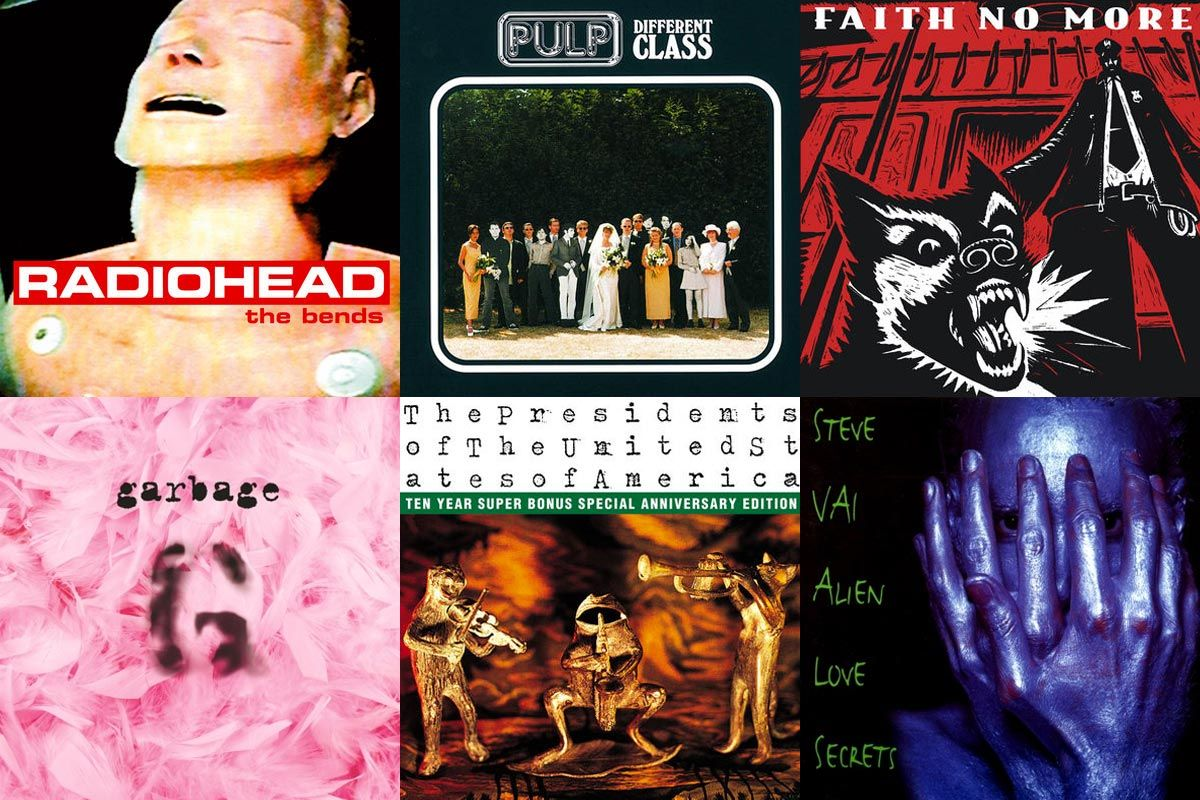
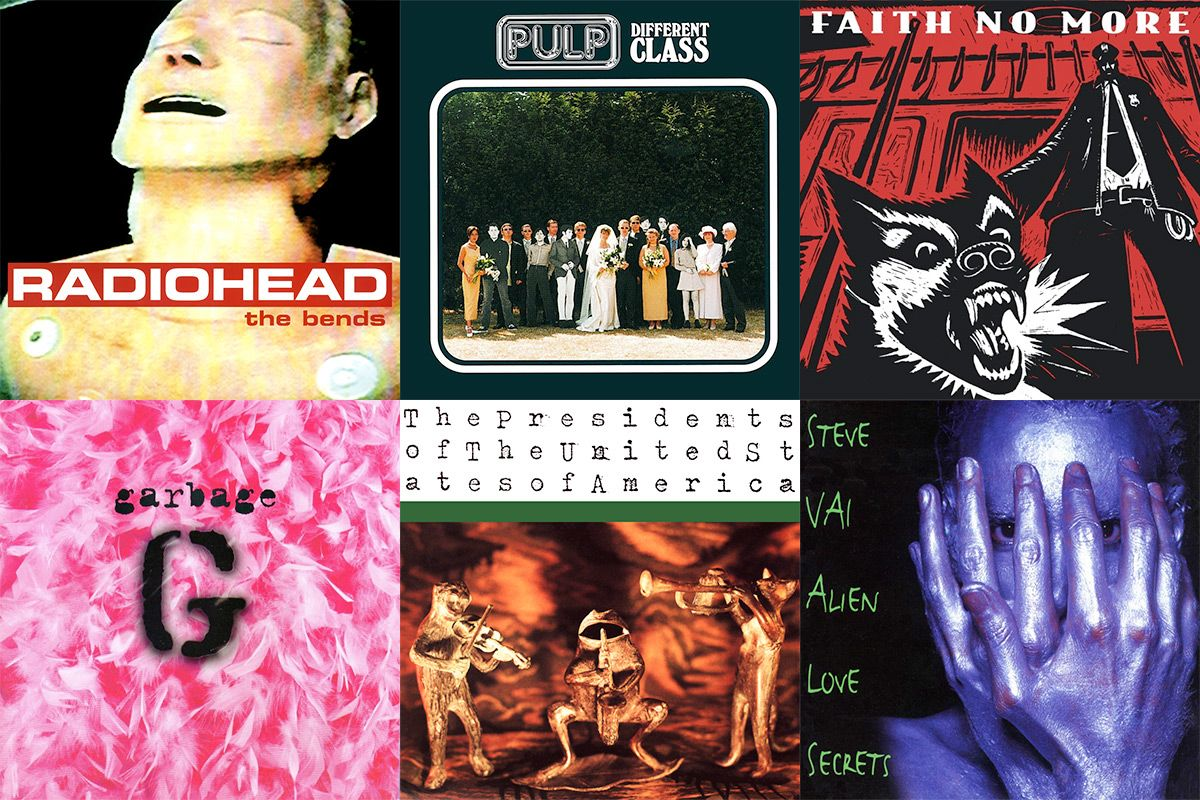
more AotY images back to 1995

diff --git a/_site/clives-album-of-the-year-1996/index.html b/_site/clives-album-of-the-year-1996/index.html
@@ -182,15 +182,15 @@
 <p>I was working in a bar in my hometown of Eastbourne, and praying for <a href="/the-dark-times/">hard rock to come back</a>.</p>
 <h2 id="honourable-mentions" tabindex="-1">Honourable mentions</h2>
 <h3 id="barenaked-ladies---born-on-a-pirate-ship" tabindex="-1"><a href="http://barenakedladies.com/">Barenaked Ladies</a> - <a href="http://www.amazon.co.uk/Born-Pirate-Ship-Barenaked-Ladies/dp/B000002N47/">Born on a Pirate Ship</a></h3>
-<p>This album does go a little bit nondescript in the second half, but the first seven songs are gold. Worth the price of admission for “Straw Hat and Old Dirty Hank” or “The Old Apartment” alone. <strong>Top track:</strong> “The Old Apartment”</p>
+<p><img src="/public/images/2025/02/bnl-pirate-ship.jpg" alt="Barenaked Ladies – Born on a Pirate Ship" class="aoty aoty-mention"> This album does go a little bit nondescript in the second half, but the first seven songs are gold. Worth the price of admission for “Straw Hat and Old Dirty Hank” or “The Old Apartment” alone. <strong>Top track:</strong> “The Old Apartment”</p>
 <h3 id="manic-street-preachers---everything-must-go" tabindex="-1"><a href="http://www.manicstreetpreachers.com/">Manic Street Preachers</a> - <a href="http://www.amazon.co.uk/Everything-Must-Manic-Street-Preachers/dp/B000024UNZ/">Everything Must Go</a></h3>
-<p>You can’t really ignore this album. I know, I tried. I really didn’t want to put it in the shortlist, but so huge was its impact that I just couldn’t leave it out. And whatever you think of JDB’s hectoring, there are some <strong>massive</strong> tunes on here. <strong>Top track:</strong> “Australia”</p>
+<p><img src="/public/images/2025/02/msp-emg.jpg" alt="Manic Street Preachers – Everything Must Go" class="aoty aoty-mention"> You can’t really ignore this album. I know, I tried. I really didn’t want to put it in the shortlist, but so huge was its impact that I just couldn’t leave it out. And whatever you think of JDB’s hectoring, there are some <strong>massive</strong> tunes on here. <strong>Top track:</strong> “Australia”</p>
 <h3 id="matchbox-twenty---yourself-or-someone-like-you" tabindex="-1"><a href="http://www.matchboxtwenty.com/">Matchbox Twenty</a> - <a href="http://www.amazon.co.uk/Yourself-Someone-Like-You-Matchbox/dp/B000002JWU/">Yourself or Someone Like You</a></h3>
-<p>This is quite a poppy album for me to own, and I honestly can’t recall where I came across it. Cracking tunes though, and Rob Thomas has a great voice. <strong>Top track:</strong> “Long Day”</p>
+<p><img src="/public/images/2025/02/m20-yourself.jpg" alt="Matchbox Twenty – Yourself or Someone Like You" class="aoty aoty-mention"> This is quite a poppy album for me to own, and I honestly can’t recall where I came across it. Cracking tunes though, and Rob Thomas has a great voice. <strong>Top track:</strong> “Long Day”</p>
 <h3 id="ocean-colour-scene---moseley-shoals" tabindex="-1"><a href="http://oceancolourscene.com/">Ocean Colour Scene</a> - <a href="http://www.amazon.co.uk/Moseley-Shoals-Ocean-Colour-Scene/dp/B000024LIX/">Moseley Shoals</a></h3>
-<p>If you were a 22-year-old male in 1996, which I was, you probably watched the TV show “TFI Friday”. And if you watched that show, then you heard quite a lot of <em>Ocean Colour Scene</em>. This album has some absolute classics on it, and if you spent any time in a British pub in the late 90s, you’ll know a good few of them. <strong>Top track:</strong> “The Riverboat Song”, obviously</p>
+<p><img src="/public/images/2025/02/ocs-mosely.jpg" alt="Ocean Colour Scene – Moseley Shoals" class="aoty aoty-mention"> If you were a 22-year-old male in 1996, which I was, you probably watched the TV show “TFI Friday”. And if you watched that show, then you heard quite a lot of <em>Ocean Colour Scene</em>. This album has some absolute classics on it, and if you spent any time in a British pub in the late 90s, you’ll know a good few of them. <strong>Top track:</strong> “The Riverboat Song”, obviously</p>
 <h3 id="underworld---second-toughest-in-the-infants" tabindex="-1"><a href="http://www.underworldlive.com/">Underworld</a> - <a href="http://www.amazon.co.uk/Second-Toughest-Infants-Underworld/dp/B000024KQ8/">Second Toughest in the Infants</a></h3>
-<p>As has been mentioned before I was a little late picking up on the Essex outfit’s output, but this - as with all of their early albums - is pretty much essential. <strong>Top track:</strong> “Juanita/Kiteless/To Dream Of Love”</p>
+<p><img src="/public/images/2025/02/u-2ndt.jpg" alt="Underworld – Second Toughest in the Infants" class="aoty aoty-mention"> As has been mentioned before I was a little late picking up on the Essex outfit’s output, but this - as with all of their early albums - is pretty much essential. <strong>Top track:</strong> “Juanita/Kiteless/To Dream Of Love”</p>
 <h2 id="and-the-winner-is%E2%80%A6" tabindex="-1">And the winner is…</h2>
 <h3 id="the-presidents-of-the-usa---the-presidents-of-the-usa-ii" tabindex="-1"><a href="http://www.presidentsrock.com/">The Presidents of the USA</a> - <a href="http://www.amazon.co.uk/Presidents-United-States-America-II/dp/B000002BIN/">The Presidents of the USA II</a></h3>
 <p><img src="/public/images/2018/03/515KJ2EEJAL.jpg" alt="The Presidents of the USA - The Presidents of the USA II" class="aoty aoty-winner"></p>
@@ -202,7 +202,7 @@
 <p><strong>Top tracks:</strong> “Volcano”, “Bath of Fire”, “Lunatic to Love”</p>
 <h2 id="turkey-of-the-year" tabindex="-1">Turkey of the Year</h2>
 <h3 id="mr.-big---hey-man" tabindex="-1"><a href="http://www.mrbigsite.com/">Mr. Big</a> - <a href="http://www.amazon.co.uk/Hey-Man-Mr-Big/dp/B000024Z3I/">Hey Man</a></h3>
-<p>No no no. The one before, <strong>Bump Ahead</strong> had gotten ballad-heavy and nondescript enough for me to consign it to the “probably won’t listen to that again” CD pile, and this one (the last before Paul Gilbert left, though he did return 15 years later) really felt like everyone was phoning it in or just didn’t know quite what they should sound like. This was <a href="/the-dark-times">The Dark Times</a> after all…</p>
+<p><img src="/public/images/2025/02/mrbig-heyman.jpg" alt="Mr. Big – Hey Man" class="aoty aoty-mention aoty-turkey"> No no no. The one before, <strong>Bump Ahead</strong> had gotten ballad-heavy and nondescript enough for me to consign it to the “probably won’t listen to that again” CD pile, and this one (the last before Paul Gilbert left, though he did return 15 years later) really felt like everyone was phoning it in or just didn’t know quite what they should sound like. This was <a href="/the-dark-times">The Dark Times</a> after all…</p>
 
 <!-- END MARKDOWN OUTPUT -->
 

diff --git a/_site/clives-album-of-the-year-1995/index.html b/_site/clives-album-of-the-year-1995/index.html
@@ -180,13 +180,13 @@
 <p>Bon voyage was bid to (as always, etc.) <a href="http://en.wikipedia.org/wiki/Larry_Grayson">Larry Grayson</a>, <a href="http://en.wikipedia.org/wiki/Peter_Cook">Peter Cook</a>, <a href="http://en.wikipedia.org/wiki/Gerald_Durrell">Gerald Durrell</a>, <a href="http://en.wikipedia.org/wiki/Donald_Pleasence">Donald Pleasance</a>, <a href="http://en.wikipedia.org/wiki/Vivian_Stanshall">Vivian Stanshall</a>, <a href="http://en.wikipedia.org/wiki/Kray_twins">Ronnie Kray</a>, <a href="http://en.wikipedia.org/wiki/Kenny_Everett">Kenny Everett</a>, <a href="http://en.wikipedia.org/wiki/Ginger_Rogers">Ginger Rogers</a>, <a href="http://en.wikipedia.org/wiki/Rory_Gallagher">Rory Gallagher</a>, <a href="http://en.wikipedia.org/wiki/Jerry_Garcia">Jerry Garcia</a>, <a href="http://en.wikipedia.org/wiki/Jeremy_Brett">Sherlock Holmes</a>, <a href="http://en.wikipedia.org/wiki/Paul_Eddington">Paul Eddington</a> and <a href="http://en.wikipedia.org/wiki/Dean_Martin">Dino</a>.</p>
 <h2 id="honourable-mentions" tabindex="-1">Honourable mentions</h2>
 <h3 id="faith-no-more---king-for-a-day%E2%80%A6-fool-for-a-lifetime" tabindex="-1"><a href="http://www.fnm.com/">Faith No More</a> - <a href="http://www.amazon.co.uk/King-Day-Faith-No-More/dp/B000024HFL/">King For a Day… Fool For a Lifetime</a></h3>
-<p>When my mate Justin came round with this album, I had no idea what to make of it. It’s about 50% what I expected from <em>FNM</em>, about 10% unlistenable screaming that sounded like <em>Mr. Bungle</em> having a bad day, and the rest… weird lounge crooning. Fascinating for the most part. <strong>Top track:</strong> “The Gentle Art of Making Enemies”</p>
+<p><img src="/public/images/2025/02/fnm-king.jpg" alt="Faith No More – King For a Day… Fool For a Lifetime" class="aoty aoty-mention"> When my mate Justin came round with this album, I had no idea what to make of it. It’s about 50% what I expected from <em>FNM</em>, about 10% unlistenable screaming that sounded like <em>Mr. Bungle</em> having a bad day, and the rest… weird lounge crooning. Fascinating for the most part. <strong>Top track:</strong> “The Gentle Art of Making Enemies”</p>
 <h3 id="garbage---garbage" tabindex="-1"><a href="http://www.garbage.com/">Garbage</a> - <a href="http://www.amazon.co.uk/Garbage/dp/B000005ROC/">Garbage</a></h3>
-<p>I think I first saw <em>Garbage</em> live on TFI Friday back in the day, and while I liked what I heard well enough, it was years later I went back and really appreciated their catalogue. Superbly crafted songs. <strong>Top track:</strong> “Stupid Girl”</p>
+<p><img src="/public/images/2025/02/garb.jpg" alt="Garbage – Garbage" class="aoty aoty-mention"> I think I first saw <em>Garbage</em> live on TFI Friday back in the day, and while I liked what I heard well enough, it was years later I went back and really appreciated their catalogue. Superbly crafted songs. <strong>Top track:</strong> “Stupid Girl”</p>
 <h3 id="the-presidents-of-the-usa---the-presidents-of-the-usa" tabindex="-1"><a href="http://www.presidentsrock.com/">The Presidents of the USA</a> - <a href="http://www.amazon.co.uk/Presidents-United-States-America/dp/B000024JDX/">The Presidents of the USA</a></h3>
-<p><em>PUSA!</em> If you don’t know then I can’t tell you, etc., but here is where it all started. Worth the price of admission for “Lump” alone, obviously. <strong>Top track:</strong> “Body”</p>
+<p><img src="/public/images/2025/02/pusa.jpg" alt="The Presidents of the USA – The Presidents of the USA" class="aoty aoty-mention"> <em>PUSA!</em> If you don’t know then I can’t tell you, etc., but here is where it all started. Worth the price of admission for “Lump” alone, obviously. <strong>Top track:</strong> “Body”</p>
 <h3 id="steve-vai---alien-love-secrets" tabindex="-1"><a href="http://www.vai.com/">Steve Vai</a> - <a href="http://www.amazon.co.uk/Alien-Love-Secrets-Steve-Vai/dp/B000025TBT/">Alien Love Secrets</a></h3>
-<p>This 7-track EP benefits hugely from Mr. Vai keeping his gob shut, and aside from the truly unlistenable “Ya-Yo Gakk”, everything else here is absolutely top-drawer Vai. <strong>Top track:</strong> “Tender Surrender”</p>
+<p><img src="/public/images/2025/02/vai-als.jpg" alt="Steve Vai – Alien Love Secrets" class="aoty aoty-mention"> This 7-track EP benefits hugely from Mr. Vai keeping his gob shut, and aside from the truly unlistenable “Ya-Yo Gakk”, everything else here is absolutely top-drawer Vai. <strong>Top track:</strong> “Tender Surrender”</p>
 <h2 id="and-the-winners-are%E2%80%A6" tabindex="-1">And the winners are…</h2>
 <p>It’s another tie for 1995. I just couldn’t separate what are for me still to this day two perfect albums that have barely dated in two decades.</p>
 <h3 id="pulp---different-class" tabindex="-1"><a href="http://www.pulppeople.com/">Pulp</a> - <a href="http://www.amazon.co.uk/Different-Class-Pulp/dp/B000001E8P/">Different Class</a></h3>
@@ -203,7 +203,7 @@
 <h2 id="turkey-of-the-year" tabindex="-1">Turkey of the Year</h2>
 <p>It’s actually hard to pick, there were so many misfires this year - the <a href="/the-dark-times/">Dark Times</a> had really set in. But for pure disappointment value I’m going for…</p>
 <h3 id="extreme---waiting-for-the-punchline" tabindex="-1"><a href="http://www.extreme-band.com/">Extreme</a> - <a href="http://www.amazon.co.uk/Waiting-Punchline-Extreme/dp/B000024GFT/">Waiting For the Punchline</a></h3>
-<p>Oof. No. Awful.</p>
+<p><img src="/public/images/2025/02/extreme-waiting.jpg" alt="Extreme – Waiting For the Punchline" class="aoty aoty-mention aoty-turkey"> Oof. No. Awful.</p>
 
 <!-- END MARKDOWN OUTPUT -->
 

diff --git a/src/posts/2015/clives-album-of-the-year-1996.md b/src/posts/2015/clives-album-of-the-year-1996.md
@@ -21,23 +21,23 @@ I was working in a bar in my hometown of Eastbourne, and praying for [hard rock 
 
 ### [Barenaked Ladies](http://barenakedladies.com/) - [Born on a Pirate Ship](http://www.amazon.co.uk/Born-Pirate-Ship-Barenaked-Ladies/dp/B000002N47/)
 
-This album does go a little bit nondescript in the second half, but the first seven songs are gold. Worth the price of admission for "Straw Hat and Old Dirty Hank" or "The Old Apartment" alone. **Top track:** "The Old Apartment"
+![Barenaked Ladies – Born on a Pirate Ship](/public/images/2025/02/bnl-pirate-ship.jpg){.aoty .aoty-mention} This album does go a little bit nondescript in the second half, but the first seven songs are gold. Worth the price of admission for "Straw Hat and Old Dirty Hank" or "The Old Apartment" alone. **Top track:** "The Old Apartment"
 
 ### [Manic Street Preachers](http://www.manicstreetpreachers.com/) - [Everything Must Go](http://www.amazon.co.uk/Everything-Must-Manic-Street-Preachers/dp/B000024UNZ/)
 
-You can't really ignore this album. I know, I tried. I really didn't want to put it in the shortlist, but so huge was its impact that I just couldn't leave it out. And whatever you think of JDB's hectoring, there are some **massive** tunes on here. **Top track:** "Australia"
+![Manic Street Preachers – Everything Must Go](/public/images/2025/02/msp-emg.jpg){.aoty .aoty-mention} You can't really ignore this album. I know, I tried. I really didn't want to put it in the shortlist, but so huge was its impact that I just couldn't leave it out. And whatever you think of JDB's hectoring, there are some **massive** tunes on here. **Top track:** "Australia"
 
 ### [Matchbox Twenty](http://www.matchboxtwenty.com/) - [Yourself or Someone Like You](http://www.amazon.co.uk/Yourself-Someone-Like-You-Matchbox/dp/B000002JWU/)
 
-This is quite a poppy album for me to own, and I honestly can't recall where I came across it. Cracking tunes though, and Rob Thomas has a great voice. **Top track:** "Long Day"
+![Matchbox Twenty – Yourself or Someone Like You](/public/images/2025/02/m20-yourself.jpg){.aoty .aoty-mention} This is quite a poppy album for me to own, and I honestly can't recall where I came across it. Cracking tunes though, and Rob Thomas has a great voice. **Top track:** "Long Day"
 
 ### [Ocean Colour Scene](http://oceancolourscene.com/) - [Moseley Shoals](http://www.amazon.co.uk/Moseley-Shoals-Ocean-Colour-Scene/dp/B000024LIX/)
 
-If you were a 22-year-old male in 1996, which I was, you probably watched the TV show "TFI Friday". And if you watched that show, then you heard quite a lot of *Ocean Colour Scene*. This album has some absolute classics on it, and if you spent any time in a British pub in the late 90s, you'll know a good few of them. **Top track:** "The Riverboat Song", obviously
+![Ocean Colour Scene – Moseley Shoals](/public/images/2025/02/ocs-mosely.jpg){.aoty .aoty-mention} If you were a 22-year-old male in 1996, which I was, you probably watched the TV show "TFI Friday". And if you watched that show, then you heard quite a lot of *Ocean Colour Scene*. This album has some absolute classics on it, and if you spent any time in a British pub in the late 90s, you'll know a good few of them. **Top track:** "The Riverboat Song", obviously
 
 ### [Underworld](http://www.underworldlive.com/) - [Second Toughest in the Infants](http://www.amazon.co.uk/Second-Toughest-Infants-Underworld/dp/B000024KQ8/)
 
-As has been mentioned before I was a little late picking up on the Essex outfit's output, but this - as with all of their early albums - is pretty much essential. **Top track:** "Juanita/Kiteless/To Dream Of Love"
+![Underworld – Second Toughest in the Infants](/public/images/2025/02/u-2ndt.jpg){.aoty .aoty-mention} As has been mentioned before I was a little late picking up on the Essex outfit's output, but this - as with all of their early albums - is pretty much essential. **Top track:** "Juanita/Kiteless/To Dream Of Love"
 
 ## And the winner is…
 
@@ -61,4 +61,4 @@ Unique, if nothing else.
 
 ### [Mr. Big](http://www.mrbigsite.com/) - [Hey Man](http://www.amazon.co.uk/Hey-Man-Mr-Big/dp/B000024Z3I/)
 
-No no no. The one before, **Bump Ahead** had gotten ballad-heavy and nondescript enough for me to consign it to the "probably won't listen to that again" CD pile, and this one (the last before Paul Gilbert left, though he did return 15 years later) really felt like everyone was phoning it in or just didn't know quite what they should sound like. This was [The Dark Times](/the-dark-times) after all…
+![Mr. Big – Hey Man](/public/images/2025/02/mrbig-heyman.jpg){.aoty .aoty-mention .aoty-turkey} No no no. The one before, **Bump Ahead** had gotten ballad-heavy and nondescript enough for me to consign it to the "probably won't listen to that again" CD pile, and this one (the last before Paul Gilbert left, though he did return 15 years later) really felt like everyone was phoning it in or just didn't know quite what they should sound like. This was [The Dark Times](/the-dark-times) after all…

diff --git a/src/posts/2015/clives-album-of-the-year-1995.md b/src/posts/2015/clives-album-of-the-year-1995.md
@@ -17,19 +17,19 @@ Bon voyage was bid to (as always, etc.) [Larry Grayson](http://en.wikipedia.org/
 
 ### [Faith No More](http://www.fnm.com/) - [King For a Day… Fool For a Lifetime](http://www.amazon.co.uk/King-Day-Faith-No-More/dp/B000024HFL/)
 
-When my mate Justin came round with this album, I had no idea what to make of it. It's about 50% what I expected from *FNM*, about 10% unlistenable screaming that sounded like *Mr. Bungle* having a bad day, and the rest… weird lounge crooning. Fascinating for the most part. **Top track:** "The Gentle Art of Making Enemies"
+![Faith No More – King For a Day… Fool For a Lifetime](/public/images/2025/02/fnm-king.jpg){.aoty .aoty-mention} When my mate Justin came round with this album, I had no idea what to make of it. It's about 50% what I expected from *FNM*, about 10% unlistenable screaming that sounded like *Mr. Bungle* having a bad day, and the rest… weird lounge crooning. Fascinating for the most part. **Top track:** "The Gentle Art of Making Enemies"
 
 ### [Garbage](http://www.garbage.com/) - [Garbage](http://www.amazon.co.uk/Garbage/dp/B000005ROC/)
 
-I think I first saw *Garbage* live on TFI Friday back in the day, and while I liked what I heard well enough, it was years later I went back and really appreciated their catalogue. Superbly crafted songs. **Top track:** "Stupid Girl"
+![Garbage – Garbage](/public/images/2025/02/garb.jpg){.aoty .aoty-mention} I think I first saw *Garbage* live on TFI Friday back in the day, and while I liked what I heard well enough, it was years later I went back and really appreciated their catalogue. Superbly crafted songs. **Top track:** "Stupid Girl"
 
 ### [The Presidents of the USA](http://www.presidentsrock.com/) - [The Presidents of the USA](http://www.amazon.co.uk/Presidents-United-States-America/dp/B000024JDX/)
 
-*PUSA!* If you don't know then I can't tell you, etc., but here is where it all started. Worth the price of admission for "Lump" alone, obviously. **Top track:** "Body"
+![The Presidents of the USA – The Presidents of the USA](/public/images/2025/02/pusa.jpg){.aoty .aoty-mention} *PUSA!* If you don't know then I can't tell you, etc., but here is where it all started. Worth the price of admission for "Lump" alone, obviously. **Top track:** "Body"
 
 ### [Steve Vai](http://www.vai.com/) - [Alien Love Secrets](http://www.amazon.co.uk/Alien-Love-Secrets-Steve-Vai/dp/B000025TBT/)
 
-This 7-track EP benefits hugely from Mr. Vai keeping his gob shut, and aside from the truly unlistenable "Ya-Yo Gakk", everything else here is absolutely top-drawer Vai. **Top track:** "Tender Surrender"
+![Steve Vai – Alien Love Secrets](/public/images/2025/02/vai-als.jpg){.aoty .aoty-mention} This 7-track EP benefits hugely from Mr. Vai keeping his gob shut, and aside from the truly unlistenable "Ya-Yo Gakk", everything else here is absolutely top-drawer Vai. **Top track:** "Tender Surrender"
 
 ## And the winners are…
 
@@ -63,4 +63,4 @@ It's actually hard to pick, there were so many misfires this year - the [Dark Ti
 
 ### [Extreme](http://www.extreme-band.com/) - [Waiting For the Punchline](http://www.amazon.co.uk/Waiting-Punchline-Extreme/dp/B000024GFT/)
 
-Oof. No. Awful.
+![Extreme – Waiting For the Punchline](/public/images/2025/02/extreme-waiting.jpg){.aoty .aoty-mention .aoty-turkey} Oof. No. Awful.
